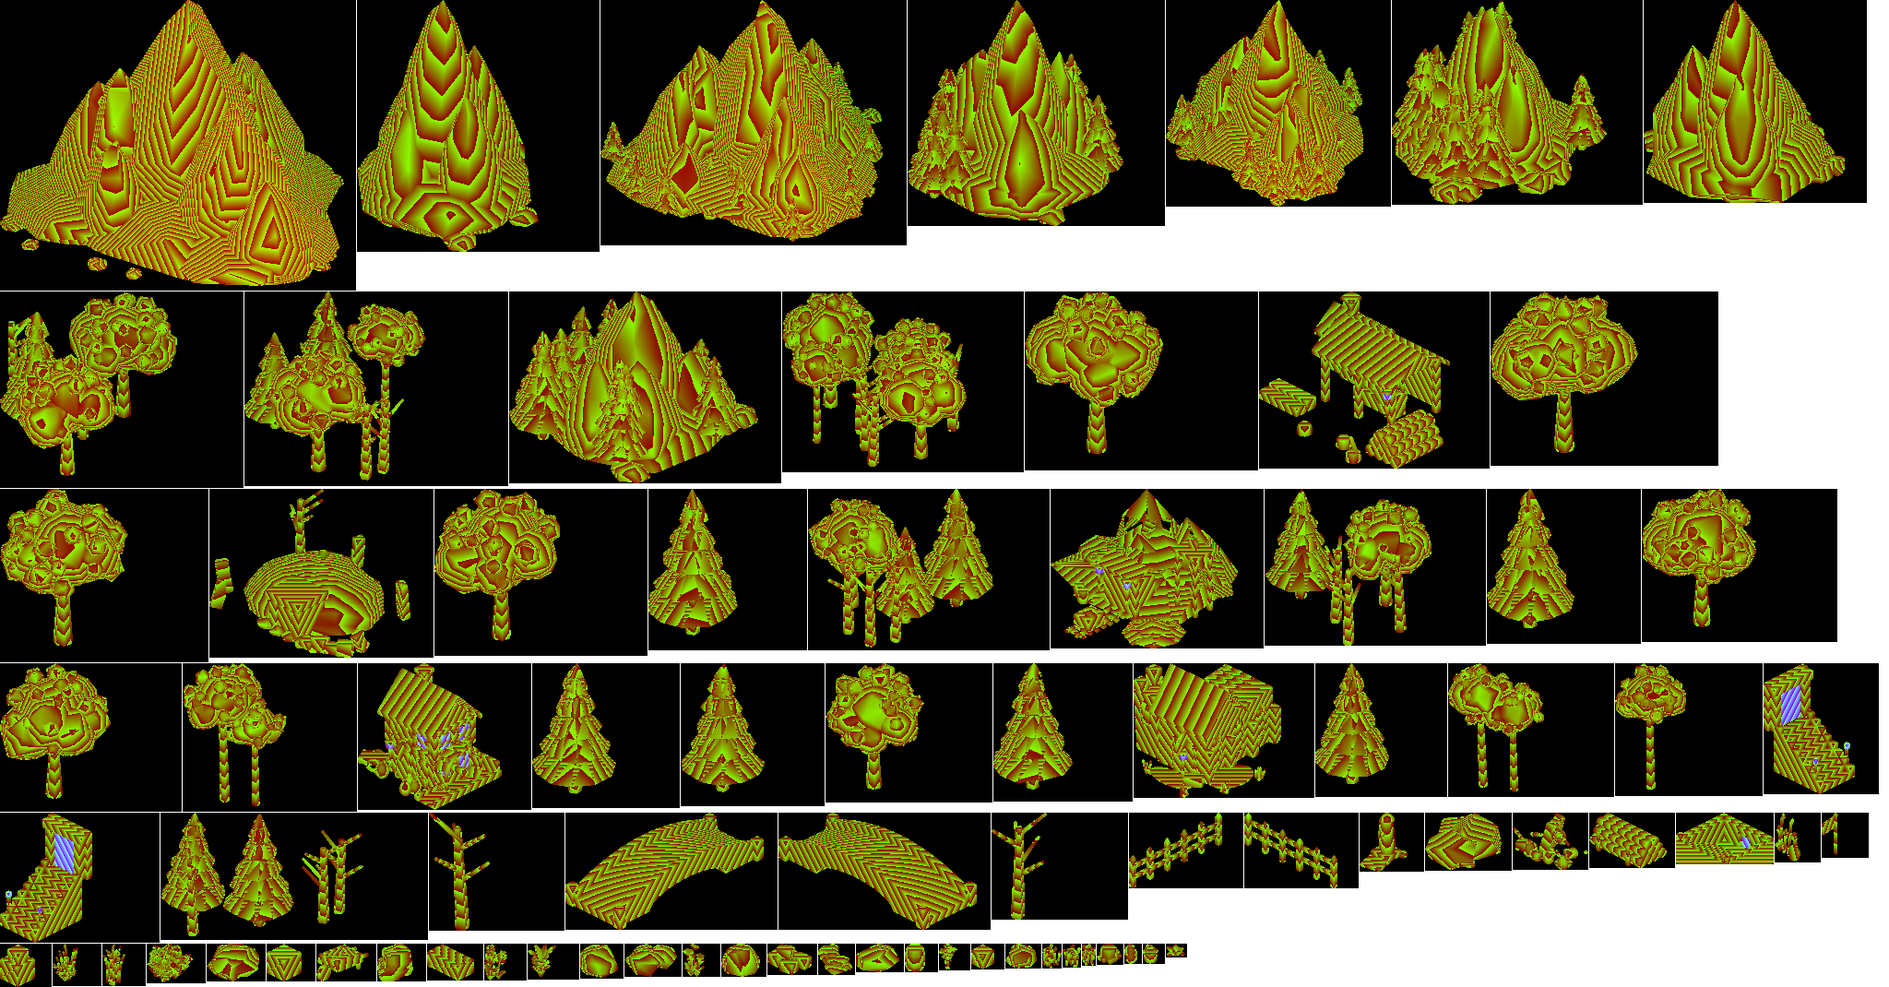
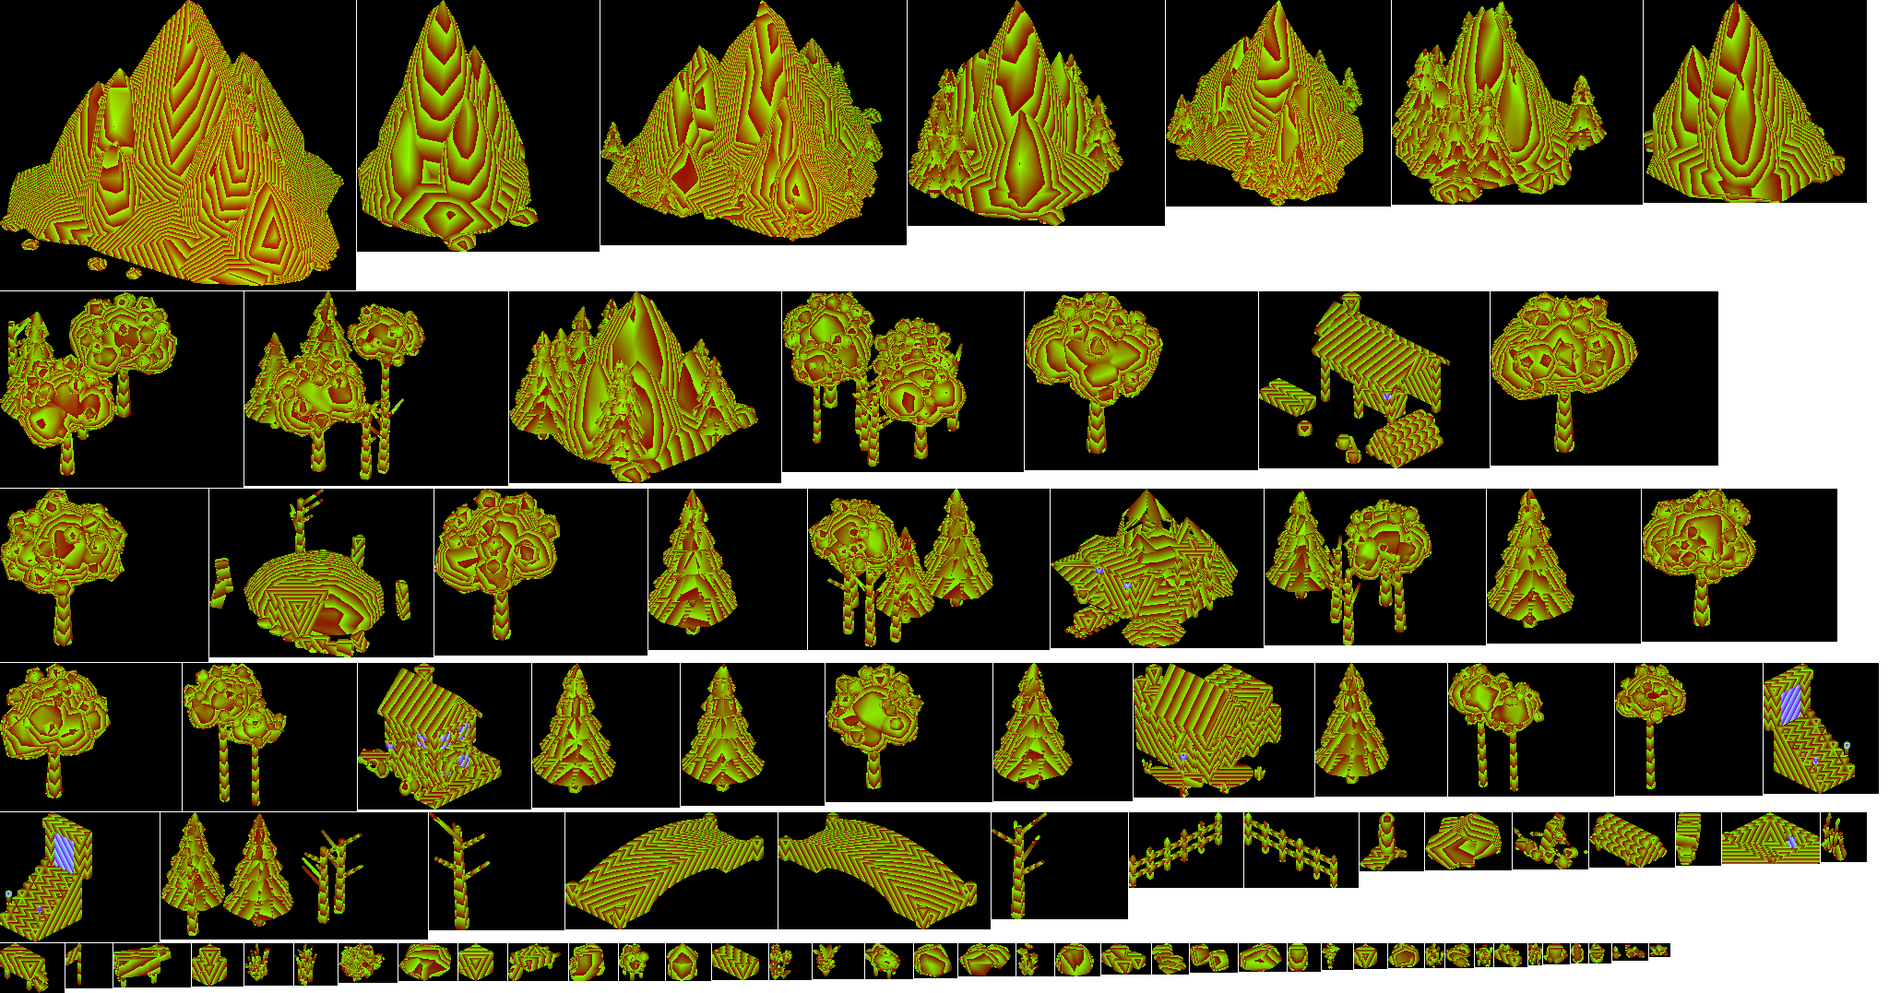
Critic pass 11e: cows, sheep, hens, hay, pumpkins and dressed doorsteps
A farmyard built in code and baked (cows with patches, sheep, hens,
pumpkins, hay bales and a stack, a flowering planter); herds by
Thornwick's farms and the Vale's, hay at the mill, and a thing or two at
the foot of every house's camera-facing walls (never in the square), on
their own stream before the wheat and undergrowth. Rubric 6.2 -> 6.6;
next: villagers, silhouettes, crisp cast shadows.

Claude-Session: https://claude.ai/code/session_015iJE9saRx1hCYJHRMUYeGn

Changed region(s): [[0.0, 0.0308, 1.0, 1.0], [0.3125, 0.0308, 0.9688, 0.2467]]

diff --git a/src/sim/envfoot.js b/src/sim/envfoot.js
@@ -1,4 +1,4 @@
 // envfoot.js — GENERATED by tools/actor-lab/bake-env.cjs. Do not edit.
 // Ground footprint of each baked environment sprite, in tiles relative to its
 // origin: [x0, y0, x1, y1]. Used for collision and placement.
-export const ENV_FOOT = {"pine_1":[-4.13,-4.18,4.39,4.34],"pine_2":[-4.81,-4.8,5.12,5],"pine_3":[-4.98,-5.01,5,4.96],"pine_4":[-5.13,-5.38,5.48,5.19],"pine_5":[-4.8,-4.87,4.86,4.58],"pine_6":[-4.76,-4.68,4.81,4.84],"oak_1":[-6.75,-7.14,6.33,6.1],"oak_2":[-5.79,-6.35,5.76,6.08],"oak_3":[-6.48,-6.65,6.29,5.96],"oak_4":[-6.59,-6.8,6.43,6.89],"autumn_1":[-6.59,-6.88,6.22,6.33],"autumn_2":[-5.57,-5.73,5.51,5.75],"autumn_3":[-5.1,-5.47,5.08,5.06],"birch_1":[-4.93,-3.24,2.73,4.21],"birch_2":[-4.81,-4.29,4.6,3.62],"birch_3":[-5.17,-3.57,4.88,4.81],"dead_1":[-2.24,-2.81,2.66,2.62],"dead_2":[-2.56,-1.87,2.98,3.05],"grove_1":[-9.86,-8.38,6.88,6.28],"grove_2":[-10.59,-7.13,5.79,8.69],"grove_3":[-10.94,-8,11.15,9.36],"grove_4":[-10.79,-8.1,8.04,10.5],"grove_5":[-9.42,-11.89,11.01,10.13],"grove_6":[-7.78,-9.39,8.91,8.76],"bridge_0":[-3.6,-9.7,3.6,9.7],"bridge_90":[-9.7,-3.6,9.7,3.6],"rock_A":[-2.18,-2.03,2.19,2.41],"rock_B":[-2.03,-2.12,2.06,1.97],"rock_C":[-3.06,-3.35,3.32,3.55],"rock_D":[-2.7,-3.56,2.22,2.22],"rock_E":[-3.72,-3.84,4.19,6.22],"mountain_A_grass_trees":[-10.67,-10.54,11.17,11.99],"mountain_B_grass_trees":[-12.25,-12.31,11.91,11.79],"mountain_C_grass_trees":[-11.39,-10.97,11.31,12.47],"mountain_A":[-10,-10.64,10.64,10.58],"mountain_B":[-11.58,-11.7,12.29,12.11],"mountain_massif_A":[-37.07,-33.75,43.44,35.17],"mountain_massif_B":[-30.31,-33,30.17,32.15],"mountain_massif_C":[-24.46,-24.21,25.04,24.61],"ruin":[-9.37,-9.66,9.14,6.89],"mine_0":[-11.55,-10.95,8.49,11.1],"lumbermill_90":[-10.3,-7.1,9.4,8.9],"barrel":[-0.89,-0.94,0.89,0.94],"crate_A_big":[-1.12,-1.12,1.12,1.19],"crate_A_small":[-0.72,-0.72,0.72,0.79],"crate_B_big":[-1.12,-1.12,1.12,1.19],"crate_long_A":[-2.02,-1.02,2.02,1.09],"sack":[-0.62,-0.49,1.25,1.36],"wheelbarrow":[-1.32,-2.69,1.32,3.23],"weaponrack":[-1.2,-0.19,2.1,0.81],"bucket_water":[-0.65,-0.65,0.65,0.65],"resource_lumber":[-3.33,-1.78,3.33,2.15],"resource_stone":[-1.7,-1.97,1.75,0.83],"flag_red":[-0.16,-0.12,0.16,1.84],"stump":[-1.06,-1.15,1.12,1.1],"fence_0":[-0.25,-6.05,0.3,6.05],"fence_90":[-6.05,-0.3,6.05,0.25],"stairsup_0":[-2.6,-4.15,2.6,3.1],"stairsup_90":[-4.15,-2.6,3.1,2.6],"stairsdown_0":[-3.38,-3.8,3.38,3.01],"watermill_0":[-6.12,-4.3,5.3,5.38],"chapelruin_0":[-6.67,-5.7,7.63,8.85],"milestone_0":[-1.68,-1.61,1.66,3.1],"wagon_0":[-4.9,-1.55,4.09,3.62],"ug_bush":[-2.03,-2.14,2.18,2.18],"ug_fern":[-3.54,-3.27,3.7,3.52],"ug_plant":[-1.95,-2.32,2.09,2.06],"ug_flowers_1":[-0.86,-1.12,1.22,1.11],"ug_flowers_2":[-1.3,-0.89,1.19,1.02],"ug_grass_1":[-1.48,-1.64,1.6,1.55],"ug_grass_2":[-0.81,-0.96,0.98,1.03],"ug_clover":[-1,-0.94,0.7,0.73],"ug_mushroom":[-1.62,-0.82,1.79,1.94],"rock_F":[-2.07,-1.38,1.8,2.21],"rock_G":[-2.06,-1.39,1.6,1.58],"rock_H":[-2.19,-1.07,1.91,3.1],"wheat_1":[-0.69,-0.8,0.76,0.68],"wheat_2":[-0.71,-0.84,0.73,0.93],"wheat_3":[-0.9,-0.69,0.81,0.84],"vale_tavern_1":[-8.45,-6.72,7.25,6.3],"vale_inn_1":[-7.1,-4.4,10.48,5.1],"vale_shop_1":[-4.2,-4.2,5.72,5.07],"vale_temple_1":[-6.7,-6.95,4.5,7.84],"vale_well_1":[-2.1,-1.8,2.1,1.8],"vale_house_1":[-4.7,-4,4.7,4],"vale_house_2":[-4.7,-4,4.7,4],"vale_house_3":[-4.7,-4,4.7,4],"vale_housex_1":[-4,-4.7,4,4.7],"vale_housex_2":[-4,-4.7,4,4.7],"vale_farm_1":[-9.63,-5.7,9.77,7.63],"vale_farmx_1":[-5.7,-9.77,7.63,9.63],"vale_keep_1":[-6.37,-6.45,6.37,6.45],"vale_wall_1":[-11,-1.7,11,2.1],"vale_smith_1":[-4.3,-5.36,4.8,5.2],"vale_curtain_1":[-10.09,-2,10.15,2],"vale_curtainy_1":[-2,-10.15,2,10.09],"vale_tower_1":[-4.1,-4.1,4.1,4.1],"vale_gatehousey_1":[-3,-7.5,3,7.5],"fens_tavern_1":[-8.45,-6.72,7.25,6.3],"fens_inn_1":[-7.1,-4.4,10.48,5.1],"fens_shop_1":[-4.2,-4.2,5.72,5.07],"fens_temple_1":[-6.7,-6.95,4.5,7.84],"fens_well_1":[-2.1,-1.8,2.1,1.8],"fens_house_1":[-4.7,-4,4.7,4],"fens_house_2":[-4.7,-4,4.7,4],"fens_house_3":[-4.7,-4,4.7,4],"fens_housex_1":[-4,-4.7,4,4.7],"fens_housex_2":[-4,-4.7,4,4.7],"fens_farm_1":[-9.63,-5.7,9.77,7.63],"fens_farmx_1":[-5.7,-9.77,7.63,9.63],"fens_keep_1":[-6.37,-6.45,6.37,6.45],"fens_wall_1":[-11,-1.7,11,2.1],"fens_smith_1":[-4.3,-5.36,4.8,5.2],"fens_curtain_1":[-10,-1.6,10.3,1.6],"fens_curtainy_1":[-1.6,-10.3,1.6,10],"fens_tower_1":[-3.7,-3.8,3.7,3.8],"fens_gatehousey_1":[-3,-7,5.7,7],"reach_tavern_1":[-8.45,-6.72,7.25,6.3],"reach_inn_1":[-7.1,-4.4,10.48,5.1],"reach_shop_1":[-4.2,-4.2,5.72,5.07],"reach_temple_1":[-6.7,-6.95,4.5,7.84],"reach_well_1":[-2.1,-1.8,2.1,1.8],"reach_house_1":[-4.7,-4,4.7,4],"reach_house_2":[-4.7,-4,4.7,4],"reach_house_3":[-4.7,-4,4.7,4],"reach_housex_1":[-4,-4.7,4,4.7],"reach_housex_2":[-4,-4.7,4,4.7],"reach_farm_1":[-9.63,-5.7,9.77,7.63],"reach_farmx_1":[-5.7,-9.77,7.63,9.63],"reach_keep_1":[-6.37,-6.45,6.37,6.45],"reach_wall_1":[-11,-1.7,11,2.1],"reach_smith_1":[-4.3,-5.36,4.8,5.2],"reach_curtain_1":[-10,-1.6,10.3,1.6],"reach_curtainy_1":[-1.6,-10.3,1.6,10],"reach_tower_1":[-3.7,-3.8,3.7,3.8],"reach_gatehousey_1":[-3,-7,5.7,7],"heights_tavern_1":[-8.45,-6.72,7.25,6.3],"heights_inn_1":[-7.1,-4.4,10.48,5.1],"heights_shop_1":[-4.2,-4.2,5.72,5.07],"heights_temple_1":[-6.7,-6.95,4.5,7.84],"heights_well_1":[-2.1,-1.8,2.1,1.8],"heights_house_1":[-4.7,-4,4.7,4],"heights_house_2":[-4.7,-4,4.7,4],"heights_house_3":[-4.7,-4,4.7,4],"heights_housex_1":[-4,-4.7,4,4.7],"heights_housex_2":[-4,-4.7,4,4.7],"heights_farm_1":[-9.63,-5.7,9.77,7.63],"heights_farmx_1":[-5.7,-9.77,7.63,9.63],"heights_keep_1":[-6.37,-6.45,6.37,6.45],"heights_wall_1":[-11,-1.7,11,2.1],"heights_smith_1":[-4.3,-5.36,4.8,5.2],"heights_curtain_1":[-10,-1.6,10.3,1.6],"heights_curtainy_1":[-1.6,-10.3,1.6,10],"heights_tower_1":[-3.7,-3.8,3.7,3.8],"heights_gatehousey_1":[-3,-7,5.7,7]};
+export const ENV_FOOT = {"pine_1":[-4.13,-4.18,4.39,4.34],"pine_2":[-4.81,-4.8,5.12,5],"pine_3":[-4.98,-5.01,5,4.96],"pine_4":[-5.13,-5.38,5.48,5.19],"pine_5":[-4.8,-4.87,4.86,4.58],"pine_6":[-4.76,-4.68,4.81,4.84],"oak_1":[-6.75,-7.14,6.33,6.1],"oak_2":[-5.79,-6.35,5.76,6.08],"oak_3":[-6.48,-6.65,6.29,5.96],"oak_4":[-6.59,-6.8,6.43,6.89],"autumn_1":[-6.59,-6.88,6.22,6.33],"autumn_2":[-5.57,-5.73,5.51,5.75],"autumn_3":[-5.1,-5.47,5.08,5.06],"birch_1":[-4.93,-3.24,2.73,4.21],"birch_2":[-4.81,-4.29,4.6,3.62],"birch_3":[-5.17,-3.57,4.88,4.81],"dead_1":[-2.24,-2.81,2.66,2.62],"dead_2":[-2.56,-1.87,2.98,3.05],"grove_1":[-9.86,-8.38,6.88,6.28],"grove_2":[-10.59,-7.13,5.79,8.69],"grove_3":[-10.94,-8,11.15,9.36],"grove_4":[-10.79,-8.1,8.04,10.5],"grove_5":[-9.42,-11.89,11.01,10.13],"grove_6":[-7.78,-9.39,8.91,8.76],"bridge_0":[-3.6,-9.7,3.6,9.7],"bridge_90":[-9.7,-3.6,9.7,3.6],"rock_A":[-2.18,-2.03,2.19,2.41],"rock_B":[-2.03,-2.12,2.06,1.97],"rock_C":[-3.06,-3.35,3.32,3.55],"rock_D":[-2.7,-3.56,2.22,2.22],"rock_E":[-3.72,-3.84,4.19,6.22],"mountain_A_grass_trees":[-10.67,-10.54,11.17,11.99],"mountain_B_grass_trees":[-12.25,-12.31,11.91,11.79],"mountain_C_grass_trees":[-11.39,-10.97,11.31,12.47],"mountain_A":[-10,-10.64,10.64,10.58],"mountain_B":[-11.58,-11.7,12.29,12.11],"mountain_massif_A":[-37.07,-33.75,43.44,35.17],"mountain_massif_B":[-30.31,-33,30.17,32.15],"mountain_massif_C":[-24.46,-24.21,25.04,24.61],"ruin":[-9.37,-9.66,9.14,6.89],"mine_0":[-11.55,-10.95,8.49,11.1],"lumbermill_90":[-10.3,-7.1,9.4,8.9],"barrel":[-0.89,-0.94,0.89,0.94],"crate_A_big":[-1.12,-1.12,1.12,1.19],"crate_A_small":[-0.72,-0.72,0.72,0.79],"crate_B_big":[-1.12,-1.12,1.12,1.19],"crate_long_A":[-2.02,-1.02,2.02,1.09],"sack":[-0.62,-0.49,1.25,1.36],"wheelbarrow":[-1.32,-2.69,1.32,3.23],"weaponrack":[-1.2,-0.19,2.1,0.81],"bucket_water":[-0.65,-0.65,0.65,0.65],"resource_lumber":[-3.33,-1.78,3.33,2.15],"resource_stone":[-1.7,-1.97,1.75,0.83],"flag_red":[-0.16,-0.12,0.16,1.84],"stump":[-1.06,-1.15,1.12,1.1],"fence_0":[-0.25,-6.05,0.3,6.05],"fence_90":[-6.05,-0.3,6.05,0.25],"stairsup_0":[-2.6,-4.15,2.6,3.1],"stairsup_90":[-4.15,-2.6,3.1,2.6],"stairsdown_0":[-3.38,-3.8,3.38,3.01],"watermill_0":[-6.12,-4.3,5.3,5.38],"chapelruin_0":[-6.67,-5.7,7.63,8.85],"milestone_0":[-1.68,-1.61,1.66,3.1],"wagon_0":[-4.9,-1.55,4.09,3.62],"ug_bush":[-2.03,-2.14,2.18,2.18],"ug_fern":[-3.54,-3.27,3.7,3.52],"ug_plant":[-1.95,-2.32,2.09,2.06],"ug_flowers_1":[-0.86,-1.12,1.22,1.11],"ug_flowers_2":[-1.3,-0.89,1.19,1.02],"ug_grass_1":[-1.48,-1.64,1.6,1.55],"ug_grass_2":[-0.81,-0.96,0.98,1.03],"ug_clover":[-1,-0.94,0.7,0.73],"ug_mushroom":[-1.62,-0.82,1.79,1.94],"rock_F":[-2.07,-1.38,1.8,2.21],"rock_G":[-2.06,-1.39,1.6,1.58],"rock_H":[-2.19,-1.07,1.91,3.1],"wheat_1":[-0.69,-0.8,0.76,0.68],"wheat_2":[-0.71,-0.84,0.73,0.93],"wheat_3":[-0.9,-0.69,0.81,0.84],"cow_1":[-2.3,-1.02,3.05,1.01],"cow_2":[-1.82,-2.99,1.99,2.21],"cow_3":[-2.01,-2.14,2.3,2.62],"sheep_1":[-1.89,-1.61,1.84,1.64],"sheep_2":[-1.87,-1.47,1.74,1.45],"hens_1":[-0.72,-1.38,1.89,1.25],"pumpkins_1":[-1.77,-1.16,1.14,1.73],"hay_1":[-2.02,-1,2.02,1.25],"hay_2":[-1.48,-1.41,1.48,1.5],"planter_1":[-1.3,-0.4,1.3,0.4],"vale_tavern_1":[-8.45,-6.72,7.25,6.3],"vale_inn_1":[-7.1,-4.4,10.48,5.1],"vale_shop_1":[-4.2,-4.2,5.72,5.07],"vale_temple_1":[-6.7,-6.95,4.5,7.84],"vale_well_1":[-2.1,-1.8,2.1,1.8],"vale_house_1":[-4.7,-4,4.7,4],"vale_house_2":[-4.7,-4,4.7,4],"vale_house_3":[-4.7,-4,4.7,4],"vale_housex_1":[-4,-4.7,4,4.7],"vale_housex_2":[-4,-4.7,4,4.7],"vale_farm_1":[-9.63,-5.7,9.77,7.63],"vale_farmx_1":[-5.7,-9.77,7.63,9.63],"vale_keep_1":[-6.37,-6.45,6.37,6.45],"vale_wall_1":[-11,-1.7,11,2.1],"vale_smith_1":[-4.3,-5.36,4.8,5.2],"vale_curtain_1":[-10.09,-2,10.15,2],"vale_curtainy_1":[-2,-10.15,2,10.09],"vale_tower_1":[-4.1,-4.1,4.1,4.1],"vale_gatehousey_1":[-3,-7.5,3,7.5],"fens_tavern_1":[-8.45,-6.72,7.25,6.3],"fens_inn_1":[-7.1,-4.4,10.48,5.1],"fens_shop_1":[-4.2,-4.2,5.72,5.07],"fens_temple_1":[-6.7,-6.95,4.5,7.84],"fens_well_1":[-2.1,-1.8,2.1,1.8],"fens_house_1":[-4.7,-4,4.7,4],"fens_house_2":[-4.7,-4,4.7,4],"fens_house_3":[-4.7,-4,4.7,4],"fens_housex_1":[-4,-4.7,4,4.7],"fens_housex_2":[-4,-4.7,4,4.7],"fens_farm_1":[-9.63,-5.7,9.77,7.63],"fens_farmx_1":[-5.7,-9.77,7.63,9.63],"fens_keep_1":[-6.37,-6.45,6.37,6.45],"fens_wall_1":[-11,-1.7,11,2.1],"fens_smith_1":[-4.3,-5.36,4.8,5.2],"fens_curtain_1":[-10,-1.6,10.3,1.6],"fens_curtainy_1":[-1.6,-10.3,1.6,10],"fens_tower_1":[-3.7,-3.8,3.7,3.8],"fens_gatehousey_1":[-3,-7,5.7,7],"reach_tavern_1":[-8.45,-6.72,7.25,6.3],"reach_inn_1":[-7.1,-4.4,10.48,5.1],"reach_shop_1":[-4.2,-4.2,5.72,5.07],"reach_temple_1":[-6.7,-6.95,4.5,7.84],"reach_well_1":[-2.1,-1.8,2.1,1.8],"reach_house_1":[-4.7,-4,4.7,4],"reach_house_2":[-4.7,-4,4.7,4],"reach_house_3":[-4.7,-4,4.7,4],"reach_housex_1":[-4,-4.7,4,4.7],"reach_housex_2":[-4,-4.7,4,4.7],"reach_farm_1":[-9.63,-5.7,9.77,7.63],"reach_farmx_1":[-5.7,-9.77,7.63,9.63],"reach_keep_1":[-6.37,-6.45,6.37,6.45],"reach_wall_1":[-11,-1.7,11,2.1],"reach_smith_1":[-4.3,-5.36,4.8,5.2],"reach_curtain_1":[-10,-1.6,10.3,1.6],"reach_curtainy_1":[-1.6,-10.3,1.6,10],"reach_tower_1":[-3.7,-3.8,3.7,3.8],"reach_gatehousey_1":[-3,-7,5.7,7],"heights_tavern_1":[-8.45,-6.72,7.25,6.3],"heights_inn_1":[-7.1,-4.4,10.48,5.1],"heights_shop_1":[-4.2,-4.2,5.72,5.07],"heights_temple_1":[-6.7,-6.95,4.5,7.84],"heights_well_1":[-2.1,-1.8,2.1,1.8],"heights_house_1":[-4.7,-4,4.7,4],"heights_house_2":[-4.7,-4,4.7,4],"heights_house_3":[-4.7,-4,4.7,4],"heights_housex_1":[-4,-4.7,4,4.7],"heights_housex_2":[-4,-4.7,4,4.7],"heights_farm_1":[-9.63,-5.7,9.77,7.63],"heights_farmx_1":[-5.7,-9.77,7.63,9.63],"heights_keep_1":[-6.37,-6.45,6.37,6.45],"heights_wall_1":[-11,-1.7,11,2.1],"heights_smith_1":[-4.3,-5.36,4.8,5.2],"heights_curtain_1":[-10,-1.6,10.3,1.6],"heights_curtainy_1":[-1.6,-10.3,1.6,10],"heights_tower_1":[-3.7,-3.8,3.7,3.8],"heights_gatehousey_1":[-3,-7,5.7,7]};

diff --git a/tools/actor-lab/buildkit.js b/tools/actor-lab/buildkit.js
@@ -718,7 +718,73 @@ function wheatMesh(r, v) {
   }
   return g;
 }
+// Farmyard life (critic pass 11e: the reference's village is busy with cows, hay, pumpkins and flowers; ours
+// stood bare). Low-poly, built in code like the rest; animals stand still, grazing or looking about.
+function lump(geo, r, amt) { const p = geo.attributes.position; for (let i = 0; i < p.count; i++) p.setXYZ(i, p.getX(i) * (1 + (r() - 0.5) * amt), p.getY(i) * (1 + (r() - 0.5) * amt), p.getZ(i) * (1 + (r() - 0.5) * amt)); geo.computeVertexNormals(); return geo; }
+function cowMesh(r, v) {
+  const g = new THREE.Group(), white = flat('#d6cfc0'), black = flat('#262020'), pink = flat('#d08a7c'), horn = flat('#d8cfb4');
+  const body = new THREE.Mesh(new THREE.BoxGeometry(0.4, 0.17, 0.19), white); body.position.y = 0.2; g.add(body);
+  for (const [px, py] of [[-0.11, 0.23], [0.07, 0.18]]) {           // two patches, proud of the hide on every side, one over the back
+    const w = 0.07 + r() * 0.03, h = 0.07 + r() * 0.03, pt = new THREE.Mesh(new THREE.BoxGeometry(w, h, 0.2), black);
+    pt.position.set(px + (r() - 0.5) * 0.03, py, 0); g.add(pt);
+  }
+  const top = new THREE.Mesh(new THREE.BoxGeometry(0.08, 0.012, 0.09), black); top.position.set(-0.02, 0.29, 0.02); g.add(top);
+  const graze = v % 2 === 0, head = new THREE.Group(); head.position.set(0.22, graze ? 0.1 : 0.27, 0); head.rotation.z = graze ? -0.6 : 0.1; g.add(head);
+  const hd = new THREE.Mesh(new THREE.BoxGeometry(0.11, 0.1, 0.1), white); head.add(hd);
+  const hp = new THREE.Mesh(new THREE.BoxGeometry(0.06, 0.104, 0.104), black); hp.position.x = -0.03; head.add(hp);
+  const muz = new THREE.Mesh(new THREE.BoxGeometry(0.05, 0.06, 0.09), pink); muz.position.set(0.07, -0.02, 0); head.add(muz);
+  for (const sz of [-1, 1]) { const h = new THREE.Mesh(new THREE.ConeGeometry(0.012, 0.05, 4), horn); h.position.set(-0.01, 0.07, sz * 0.045); h.rotation.x = sz * 0.6; head.add(h); const e = new THREE.Mesh(new THREE.BoxGeometry(0.02, 0.025, 0.04), black); e.position.set(-0.02, 0.03, sz * 0.065); head.add(e); }
+  for (const [x, z] of [[0.15, 0.06], [0.15, -0.06], [-0.15, 0.06], [-0.15, -0.06]]) { const l = new THREE.Mesh(new THREE.CylinderGeometry(0.018, 0.016, 0.12, 5), white); l.position.set(x, 0.06, z); g.add(l); const hf = new THREE.Mesh(new THREE.BoxGeometry(0.03, 0.02, 0.03), black); hf.position.set(x, 0.01, z); g.add(hf); }
+  const tail = new THREE.Mesh(new THREE.CylinderGeometry(0.006, 0.006, 0.14, 4), white); tail.position.set(-0.21, 0.17, 0); tail.rotation.z = 0.2; g.add(tail);
+  g.rotation.y = r() * 0.6 - 0.3; return g;
+}
+function sheepMesh(r, v) {
+  const g = new THREE.Group(), wool = flat('#ece6d6'), face = flat('#2b2622');
+  const body = new THREE.Mesh(lump(new THREE.IcosahedronGeometry(0.11, 1), r, 0.18), wool); body.scale.set(1.35, 0.9, 1); body.position.y = 0.15; g.add(body);
+  for (let i = 0; i < 6; i++) { const t = new THREE.Mesh(new THREE.IcosahedronGeometry(0.05, 0), wool); t.position.set((r() - 0.5) * 0.22, 0.2 + r() * 0.05, (r() - 0.5) * 0.14); g.add(t); }   // the fleece's tufts
+  const graze = v % 2 === 1, hd = new THREE.Mesh(new THREE.BoxGeometry(0.07, 0.07, 0.06), face); hd.position.set(0.15, graze ? 0.07 : 0.18, 0); g.add(hd);
+  for (const [x, z] of [[0.07, 0.05], [0.07, -0.05], [-0.07, 0.05], [-0.07, -0.05]]) { const l = new THREE.Mesh(new THREE.CylinderGeometry(0.012, 0.012, 0.09, 4), face); l.position.set(x, 0.045, z); g.add(l); }
+  g.rotation.y = r() * 6.28; return g;
+}
+function hensMesh(r) {
+  const g = new THREE.Group(), feather = [flat('#efe8da'), flat('#a5652e'), flat('#efe8da')], comb = flat('#c8322a'), beak = flat('#d8a23a');
+  for (let i = 0; i < 4; i++) {
+    const h = new THREE.Group(); h.position.set((r() - 0.5) * 0.3, 0, (r() - 0.5) * 0.3); h.rotation.y = r() * 6.28; g.add(h);
+    const b = new THREE.Mesh(new THREE.IcosahedronGeometry(0.035, 0), feather[i % 3]); b.scale.set(1.3, 1, 1); b.position.y = 0.05; h.add(b);
+    const hd = new THREE.Mesh(new THREE.BoxGeometry(0.025, 0.028, 0.022), feather[i % 3]); hd.position.set(0.04, 0.08, 0); h.add(hd);
+    const c = new THREE.Mesh(new THREE.BoxGeometry(0.014, 0.012, 0.006), comb); c.position.set(0.04, 0.1, 0); h.add(c);
+    const k = new THREE.Mesh(new THREE.BoxGeometry(0.012, 0.008, 0.008), beak); k.position.set(0.058, 0.078, 0); h.add(k);
+  }
+  return g;
+}
+function pumpkinsMesh(r) {
+  const g = new THREE.Group(), cols = ['#c86a1c', '#d47a22', '#b85a18'].map((c) => flat(c)), stem = flat('#5a5a2a'), leaf = flat('#4e5e26');
+  for (let i = 0; i < 5; i++) {
+    const s = 0.035 + r() * 0.03, p = new THREE.Mesh(lump(new THREE.IcosahedronGeometry(s, 1), r, 0.1), cols[i % 3]); p.scale.set(1.25, 0.8, 1.25);
+    const x = (r() - 0.5) * 0.24, z = (r() - 0.5) * 0.24; p.position.set(x, s * 0.75, z); g.add(p);
+    const st = new THREE.Mesh(new THREE.CylinderGeometry(0.005, 0.007, 0.03, 4), stem); st.position.set(x, s * 1.5, z); g.add(st);
+    const lf = new THREE.Mesh(new THREE.IcosahedronGeometry(0.03, 0), leaf); lf.scale.set(1.4, 0.3, 1); lf.position.set(x + 0.04, 0.012, z - 0.03); g.add(lf);
+  }
+  return g;
+}
+function hayMesh(r, v) {
+  const g = new THREE.Group(), hay = mat(tex('thatch', '#b89a4c', 7 + v));
+  if (v % 2 === 0) {                                                   // round bales, lying
+    for (let i = 0; i < 2; i++) { const b = new THREE.Mesh(new THREE.CylinderGeometry(0.09, 0.09, 0.12, 10), hay); b.rotation.x = Math.PI / 2; b.rotation.z = r() * 0.6; b.position.set(i * 0.2 - 0.1, 0.09, (r() - 0.5) * 0.08); g.add(b); }
+  } else {                                                             // a stack, thatched on top
+    const h = new THREE.Mesh(new THREE.CylinderGeometry(0.12, 0.14, 0.18, 9), hay); h.position.y = 0.09; g.add(h);
+    const c = new THREE.Mesh(new THREE.ConeGeometry(0.15, 0.14, 9), hay); c.position.y = 0.25; g.add(c);
+  }
+  return g;
+}
+function planterMesh(r) {
+  const g = new THREE.Group(), wood = mat(tex('planks', '#6a4a30', 3)), soil = flat('#3a2a1e'), petals = ['#c84a8a', '#e8e0f0', '#e0b040', '#8a5ac8'].map((c) => flat(c)), leaf = flat('#4a6a2a');
+  box(0.26, 0.07, 0.08, wood, 0, 0, 0, g); box(0.24, 0.01, 0.07, soil, 0, 0.07, 0, g);
+  for (let i = 0; i < 9; i++) { const x = -0.1 + i * 0.025, y = 0.08 + r() * 0.04; const l = new THREE.Mesh(new THREE.IcosahedronGeometry(0.018, 0), leaf); l.position.set(x, y, (r() - 0.5) * 0.04); g.add(l); const f = new THREE.Mesh(new THREE.IcosahedronGeometry(0.014, 0), petals[(r() * 4) | 0]); f.position.set(x, y + 0.02, (r() - 0.5) * 0.04); g.add(f); }
+  return g;
+}
 const NATURE = {
+  cow: (r, v) => cowMesh(r, v), sheep: (r, v) => sheepMesh(r, v), hens: (r) => hensMesh(r), pumpkins: (r) => pumpkinsMesh(r), hay: (r, v) => hayMesh(r, v), planter: (r) => planterMesh(r),
   wheat: (r, v) => wheatMesh(r, v),
   bridge: (r) => bridgeMesh(r),
   rock: (r, v) => { const g = new THREE.Group(), n = [1, 1, 2, 3, 2][v % 5], big = [0.2, 0.14, 0.24, 0.18, 0.32][v % 5];

diff --git a/src/sim/outdoor.js b/src/sim/outdoor.js
@@ -231,6 +231,30 @@ function wheat(o) {
   }
 }
 
+// Farmyard life and dressed doorsteps (critic pass 11e: the reference's village is busy with cows, hay, pumpkins,
+// barrels and flowers; ours stood bare). `herd`: n of a kind round a spot, apart and clear of everything. `dress`:
+// a house's camera-facing walls (+x, +y) get a thing or two at their foot. Their own stream, placed before the
+// wheat and the undergrowth, so nothing placed earlier moves.
+function herd(o, rng, ids, cx, cy, n, spread) {
+  for (let k = 0, t = 0; k < n && t < n * 12; t++) {
+    const id = pick(rng, ids), x = cx + (rng() - 0.5) * spread * 2, y = cy + (rng() - 0.5) * spread * 2;
+    if (fits(o, id, x, y, 0.4)) { put(o, id, x, y, 'round', 0.3); k++; }
+  }
+}
+const DOORSTEP = ['barrel', 'crate_A_small', 'sack', 'planter_1', 'planter_1', 'pumpkins_1', 'hay_2', 'bucket_water'];
+function dress(o, rng, keepOut) {
+  for (const st of o.structs.slice()) {
+    if (!/_(house|housex)_\d$/.test(st.id)) continue;
+    const f = ENV_FOOT[st.id]; if (!f) continue;
+    for (let k = 0, n = 1 + Math.floor(rng() * 2), t = 0; k < n && t < 10; t++) {
+      const onX = rng() < 0.5, id = pick(rng, DOORSTEP);
+      const x = onX ? st.x + f[2] + 0.9 : st.x + f[0] + 0.8 + rng() * (f[2] - f[0] - 1.6), y = onX ? st.y + f[1] + 0.8 + rng() * (f[3] - f[1] - 1.6) : st.y + f[3] + 0.9;
+      if (keepOut(x, y) || !fits(o, id, x, y, 0.15)) continue;
+      put(o, id, x, y, 'rect', 0.1); k++;
+    }
+  }
+}
+
 // Keep the view of a landmark clear: the camera looks from +x+y, so anything tall in the wedge
 // in front of (and a little around) a site hides it. True if (x, y) is in that wedge.
 function inFrontOf(sites, x, y, depth = 30, half = 18) {
@@ -324,6 +348,10 @@ function buildTown(seed, region) {
     return n > 0.55 && rng() < 0.4 ? pick(rng, TREE_SINGLE) : rng() < 0.05 ? pick(rng, ROCKS) : null;
   });
   forestRing(o, rng, 10);
+  { const fr = mulberry32(streamSeed(seed, 4417));                // the farms' beasts, the houses' doorsteps
+    herd(o, fr, ['cow_1', 'cow_2', 'cow_3'], 160, 34, 4, 6); herd(o, fr, ['sheep_1', 'sheep_2'], 160, 98, 5, 6);
+    herd(o, fr, ['hens_1'], 136, 58, 2, 3); herd(o, fr, ['hay_1', 'hay_2', 'pumpkins_1'], 154, 52, 3, 4); herd(o, fr, ['pumpkins_1', 'hay_1'], 152, 116, 2, 3);
+    dress(o, fr, (x, y) => hypot(x - o.hub.x, y - o.hub.y) < o.hub.r); }
   wheat(o);
   // the undergrowth: the walls' verges (in and out), the stream's banks, the gardens, flower patches; never the square
   undergrowth(o, -10, -10, 150, 130, 3, (x, y) => {
@@ -510,6 +538,10 @@ function buildOverland(seed) {
   }
   scatter(o, trng, 0, 0, 260, 260, 10, (x, y) => (trng() < 0.01 && clear(x, y, 'rock_F') ? pick(trng, ROCKS) : null));
   forestRing(o, rng, 6);
+  { const fr = mulberry32(streamSeed(seed, 4417));                // the farms' beasts, hay at the mill and the camp
+    herd(o, fr, ['cow_1', 'cow_2', 'cow_3'], 80, 118, 4, 6); herd(o, fr, ['sheep_1', 'sheep_2'], 34, 92, 6, 8); herd(o, fr, ['sheep_1', 'sheep_2'], 186, 168, 4, 6);
+    herd(o, fr, ['hens_1'], 58, 132, 2, 3); herd(o, fr, ['hay_1', 'hay_2', 'pumpkins_1'], 50, 100, 3, 4); herd(o, fr, ['hay_2', 'sack', 'barrel'], 86, 114, 3, 3);
+    herd(o, fr, ['pumpkins_1', 'hay_1'], 36, 130, 2, 3); }
   wheat(o);
   // the undergrowth: thick at the woods' and forests' edges and along the river's banks, in patches in the meadows;
   // clear of every site and its way in
